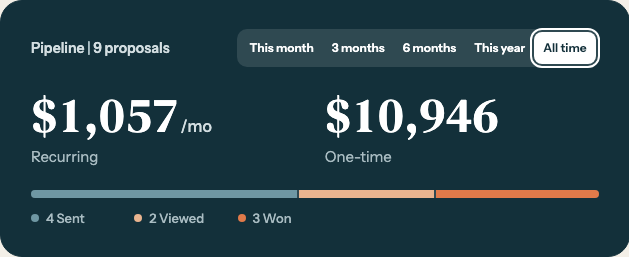
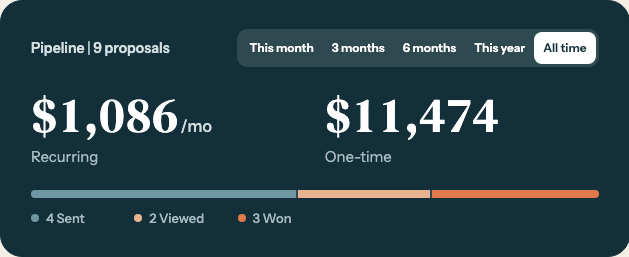
Keep shared control focus rings keyboard-only

diff --git a/e2e/owner-redesign-polish.spec.ts b/e2e/owner-redesign-polish.spec.ts
@@ -54,6 +54,23 @@ async function expectReadable(control: Locator, state: string) {
   expect(contrast, state).toBeGreaterThanOrEqual(4.5);
 }
 
+async function expectTabFocus(tab: Locator) {
+  await tab.click();
+  await expect(tab).toHaveAttribute("aria-selected", "true");
+  await expect(tab).toHaveCSS("outline-style", "none");
+  const selectedShadow = await tab.evaluate(
+    (element) => getComputedStyle(element).boxShadow,
+  );
+  await tab.press("Shift+Tab");
+  await expect(tab).not.toBeFocused();
+  await expect(tab).toHaveCSS("box-shadow", selectedShadow);
+  await tab.page().keyboard.press("Tab");
+  await expect(tab).toBeFocused();
+  await expect(tab).toHaveCSS("outline-style", "solid");
+  await tab.click();
+  await expect(tab).toHaveCSS("outline-style", "none");
+}
+
 test("tab sets and real record and editor navigation use readable shared styles", async ({
   page,
 }) => {
@@ -61,7 +78,7 @@ test("tab sets and real record and editor navigation use readable shared styles"
   await page.setViewportSize({ width: 1440, height: 960 });
   await page.goto("/proposals");
   await expectStraightTabIndicator(page.getByRole("tab", { name: /^All/ }));
-  await page.getByRole("tab", { name: /^Drafts/ }).click();
+  await expectTabFocus(page.getByRole("tab", { name: /^Drafts/ }));
   await expectStraightTabIndicator(page.getByRole("tab", { name: /^Drafts/ }));
   await screenshot(page, "proposal-tabs-1440");
 
@@ -95,6 +112,7 @@ test("tab sets and real record and editor navigation use readable shared styles"
   await expect(quote).not.toHaveCSS("background-color", "rgba(0, 0, 0, 0)");
   await screenshot(page, "editor-tabs-1440");
   await screenshot(page, "editor-proposals-hover-1440");
+  await expectTabFocus(page.getByRole("tab", { name: "Fields", exact: true }));
 
   await page.goto("/studio/templates");
   const templates = page
@@ -178,13 +196,20 @@ test("button variants keep their text readable in hover, active and focus on pap
         await page.mouse.down();
         await expectReadable(button, `${theme} ${label} active`);
         await page.mouse.up();
+        await expect(button).toBeFocused();
+        await expect(button).toHaveCSS("outline-style", "none");
+        await expect(button).toHaveCSS("box-shadow", "none");
         await page.mouse.move(20, 20);
         await page.keyboard.press("Tab");
         await button.focus();
         expect(
           await button.evaluate((el) => el.matches(":focus-visible")),
         ).toBe(true);
+        await expect(button).toHaveCSS("outline-style", "solid");
         await expectReadable(button, `${theme} ${label} focus`);
+        await button.click();
+        await expect(button).toBeFocused();
+        await expect(button).toHaveCSS("outline-style", "none");
       }
     }
   }

diff --git a/e2e/home-pipeline.spec.ts b/e2e/home-pipeline.spec.ts
@@ -294,9 +294,10 @@ test("Home animates Pipeline amounts and stage widths without moving its section
 
   const time = await page.evaluate(() => Date.now());
   await page.clock.pauseAt(time + 100);
-  await choose(page, "All time").evaluate((element: HTMLElement) =>
-    element.click(),
-  );
+  const allTime = choose(page, "All time");
+  const { x, y, width, height } = (await allTime.boundingBox())!;
+  await page.mouse.click(x + width / 2, y + height / 2);
+  await expect(allTime).toHaveCSS("outline-style", "none");
   await expect(amount(page, "month")).toHaveText("$640/mo");
   await capture(page, "range-0ms", "pipeline");
   await page.clock.runFor(120);
@@ -406,4 +407,28 @@ test("Home keeps currency and yearly amount rows in place when a range excludes 
   await choose(page, "All time").click();
   await expect(yearly).toHaveText("CA$200/yr");
   expect((await attention.boundingBox())!.y).toBe(initialY);
+});
+
+test("Pipeline range shows its focus ring for keyboard Tab only", async ({
+  page,
+}) => {
+  await page.setViewportSize({ width: 1440, height: 960 });
+  await page.clock.setFixedTime(now);
+  await fixture(page);
+  await page.goto("/");
+  const segment = choose(page, "3 months");
+  const radio = controls(page).getByRole("radio", { name: "3 months" });
+
+  await segment.click();
+  await expect(radio).toBeChecked();
+  await expect(segment).toHaveCSS("outline-style", "none");
+  await expect(segment).toHaveCSS("box-shadow", "none");
+
+  await page.keyboard.press("Shift+Tab");
+  await page.keyboard.press("Tab");
+  await expect(radio).toBeFocused();
+  await expect(segment).toHaveCSS("outline-style", "solid");
+
+  await segment.click();
+  await expect(segment).toHaveCSS("outline-style", "none");
 });

diff --git a/src/components/pointer-focus.tsx b/src/components/pointer-focus.tsx
@@ -1,0 +1,38 @@
+"use client";
+
+import { useEffect } from "react";
+
+export function PointerFocus() {
+  useEffect(() => {
+    let pressed: Element | null = null;
+    function clear() {
+      pressed?.removeAttribute("data-pointer-focus");
+      pressed = null;
+    }
+    function onPointerDown(event: PointerEvent) {
+      if (event.button !== 0 || !(event.target instanceof Element)) return;
+      clear();
+      const label = event.target.closest("label");
+      const radio = label?.control;
+      pressed =
+        event.target.closest(
+          'button, .btn, [role="tab"], [data-tab-style] > a, input[type="radio"]',
+        ) ?? (radio?.matches('input[type="radio"]') ? radio : null);
+      // Clicking a control that already owns focus can leave :focus-visible on.
+      pressed?.setAttribute("data-pointer-focus", "");
+    }
+    function onFocusOut(event: FocusEvent) {
+      if (event.target === pressed) clear();
+    }
+    document.addEventListener("pointerdown", onPointerDown, true);
+    document.addEventListener("keydown", clear, true);
+    document.addEventListener("focusout", onFocusOut, true);
+    return () => {
+      document.removeEventListener("pointerdown", onPointerDown, true);
+      document.removeEventListener("keydown", clear, true);
+      document.removeEventListener("focusout", onFocusOut, true);
+      clear();
+    };
+  }, []);
+  return null;
+}

diff --git a/src/app/ink-clay-records.css b/src/app/ink-clay-records.css
@@ -59,6 +59,8 @@
   color: var(--hero-body);
 }
 .ink-clay .home-pipeline {
+  --focus-outline: 2px solid var(--hero-ink);
+  --focus-offset: 2px;
   display: flex;
   flex-direction: column;
   gap: 22px;
@@ -113,9 +115,9 @@
   color: var(--hero);
   background: var(--hero-ink);
 }
-.home-pipeline-range input:focus-visible + span {
-  outline: 2px solid var(--hero-ink);
-  outline-offset: 2px;
+.home-pipeline-range input:focus-visible:not([data-pointer-focus]) + span {
+  outline: var(--focus-outline);
+  outline-offset: var(--focus-offset);
 }
 .ink-clay .home-pipeline-save-error {
   margin: 0;

diff --git a/src/app/layout.tsx b/src/app/layout.tsx
@@ -1,5 +1,6 @@
 import { coverLayoutCss, sidePhotoCoverCss } from "../lib/cover-graphics";
 import { coverBrandCss } from "../lib/cover-render";
+import { PointerFocus } from "../components/pointer-focus";
 import "./globals.css";
 import "./foundation.css";
 import "./client-flow.css";
@@ -37,7 +38,10 @@ export default function RootLayout({
       <head>
         <style>{coverBrandCss + coverLayoutCss + sidePhotoCoverCss}</style>
       </head>
-      <body>{children}</body>
+      <body>
+        <PointerFocus />
+        {children}
+      </body>
     </html>
   );
 }

diff --git a/src/app/globals.css b/src/app/globals.css
@@ -35,6 +35,13 @@ textarea {
 :focus-visible {
   outline: 2px solid var(--focus-ring);
 }
+:where(button, .btn, [role="tab"], [data-tab-style] > a):focus:not(
+    :focus-visible
+  ),
+:root [data-pointer-focus]:focus {
+  --focus-outline: none;
+  outline: none;
+}
 button {
   border-radius: var(--radius-button);
   cursor: pointer;

diff --git a/src/app/column-styles.css b/src/app/column-styles.css
@@ -201,7 +201,7 @@
   cursor: default;
   color: var(--ink-muted);
 }
-.column-choices > label:has(:focus-visible) {
+.column-choices > label:has(> input:focus-visible:not([data-pointer-focus])) {
   outline: var(--focus-outline);
   outline-offset: 1px;
   z-index: 1;

diff --git a/src/app/deployment-notice.css b/src/app/deployment-notice.css
@@ -63,11 +63,6 @@
   }
 }
 
-.deployment-notice .btn:focus:not(:focus-visible) {
-  outline: none;
-  box-shadow: none;
-}
-
 .block-feedback-toast.deployment-notice.ink-clay[popover],
 .ink-clay .deployment-inline {
   border-color: var(--toast);

diff --git a/DECISIONS.md b/DECISIONS.md
@@ -1032,3 +1032,5 @@ Apply the staff security migration before deployment. Secret tables and mutation
 Home follows the updated Redesign 19 frame 2b1. The range defaults to This month and saves to the existing private staff account JSON. Ranges use the workspace time zone and the proposal's most recent Send or Reopen date. Three and six months include the current calendar month and the preceding two or five. This year starts on January 1. All time also includes legacy proposals marked won without a send date. The existing stage rules apply in every range. Totals use the existing quote amounts, with currencies and billing intervals kept separate. Currency and yearly rows keep their place across ranges and show zero when the range has no matching amounts. Home already loads the proposal list, so switching ranges needs no second data request. Reduced-motion preferences skip both the number and segment animation.
 
 The Expiring card shows the next three proposals and links to the full seven-day view. Extend opens the existing Review & send editor for eligible records, where staff choose the date. The Expiring empty message remains inside the card. The setup checklist keeps its place between the top row and attention cards. No hosted SQL is needed.
+
+Buttons and tabs use the shared keyboard focus ring. A pointer press suppresses the ring even when the browser keeps keyboard focus-visible on the same control. Keyboard input restores the ring without a blur or forced focus change. The selected segment’s fill, shadow or underline still indicates selection. Pipeline animation screenshots use a real pointer click so they do not pick up a keyboard ring from programmatic activation.
